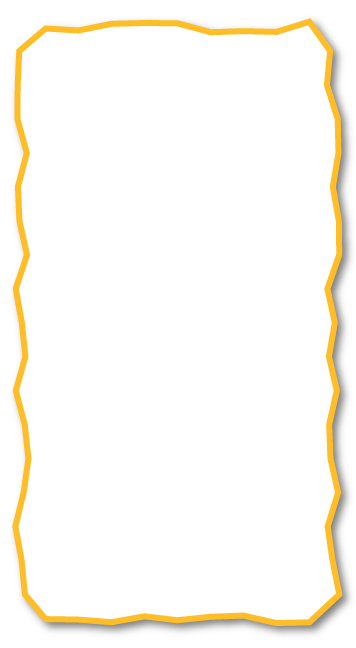
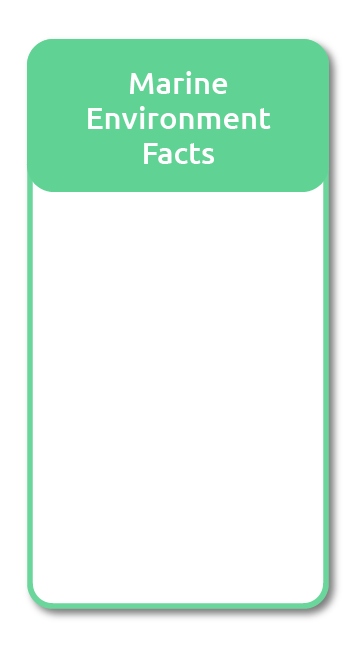
Add new pop-up design and amend layout of message text

diff --git a/states/gameOver.js b/states/gameOver.js
@@ -137,13 +137,13 @@ GameOver.prototype = {
     //message, width and height
 
     if (infoType == "can"){
-      this.showInfoBox("It is estimated that \n 6.4 million tonnes of \n litter enter the \n sea annually.");
+      this.showInfoBox("\nIt is estimated that\n6.4 million tonnes of litter enter the\nsea annually.");
     } else if (infoType == "net"){
-      this.showInfoBox("It’s estimated that \n over 100,000 animals \n and birds die every \n year from entanglement or ingestion \n of discarded items such \n as marine debris.");
+      this.showInfoBox("It’s estimated that over 100,000 animals and birds die every year from entanglement\nor ingestion of discarded items such\nas marine debris.");
     } else if (infoType == "bucket"){
-      this.showInfoBox("On average there \n are 46,000 pieces of plastic \n floating in every \n square mile of ocean.");
+      this.showInfoBox("On average there are 46,000 pieces of plastic floating in every square mile of ocean.");
     } else {
-      this.showInfoBox("A plastic bottle \n left on the beach can \n last for more than 450 years \n within the marine environment.");
+      this.showInfoBox("A plastic bottle left on the beach can last for more than 450 years within the marine environment.");
     }
     
   },
@@ -152,9 +152,12 @@ GameOver.prototype = {
   showInfoBox(text, w = 355, h = 647) {
 
     var messageStyle = {
-      font: '18pt ubuntu',
-      fill: '#333',
-      align: 'center'
+      font: '17pt ubuntu',
+      fill: '#3e4e50',
+      align: 'center',
+      wordWrap: 'true',
+      wordWrapWidth: 255
+      //boundsAlignV: 'center'
     };
 
     //just in case the message box already exists
@@ -171,25 +174,22 @@ GameOver.prototype = {
       //make a text field
       var text1 = game.add.text(0, 0, text, messageStyle);
       //set the textfeild to wrap if the text is too long
-      text1.wordWrap = true;
+      //text1.wordWrap = true;
       //make the width of the wrap 90% of the width 
       //of the message box
-      text1.wordWrapWidth = w * .9;
+      //text1.wordWrapWidth = w * .9;
       //text1.padding.set(60,0);
-      //
-      //
+
       //set the width and height passed
       //in the parameters
       back.width = w;
       back.height = h;
-      //
-      //
-      //
+
       //add the elements to the group
       msgBox.add(back);
       msgBox.add(closeButton);
       msgBox.add(text1);
-      //
+
       //set the close button
       //in the center horizontally
       //and near the bottom of the box vertically
@@ -199,15 +199,15 @@ GameOver.prototype = {
       closeButton.inputEnabled = true;
       //add a listener to destroy the box when the button is pressed
       closeButton.events.onInputDown.add(this.hideBox, this);
-      //
-      //
+      
       //set the message box in the center of the screen
       msgBox.x = game.width / 2 - msgBox.width / 2;
       msgBox.y = game.height / 2 - msgBox.height / 2;
-      //
-      //set the text in the middle of the message box
+     
+      //set the text in the middle of the message box 
+      // - adjusting for title banner
       text1.x = back.width / 2 - text1.width / 2;
-      text1.y = back.height / 2 - text1.height / 2;
+      text1.y = (back.height + 80) / 2 - text1.height / 2;
       //make a state reference to the messsage box
       this.msgBox = msgBox;
   },
